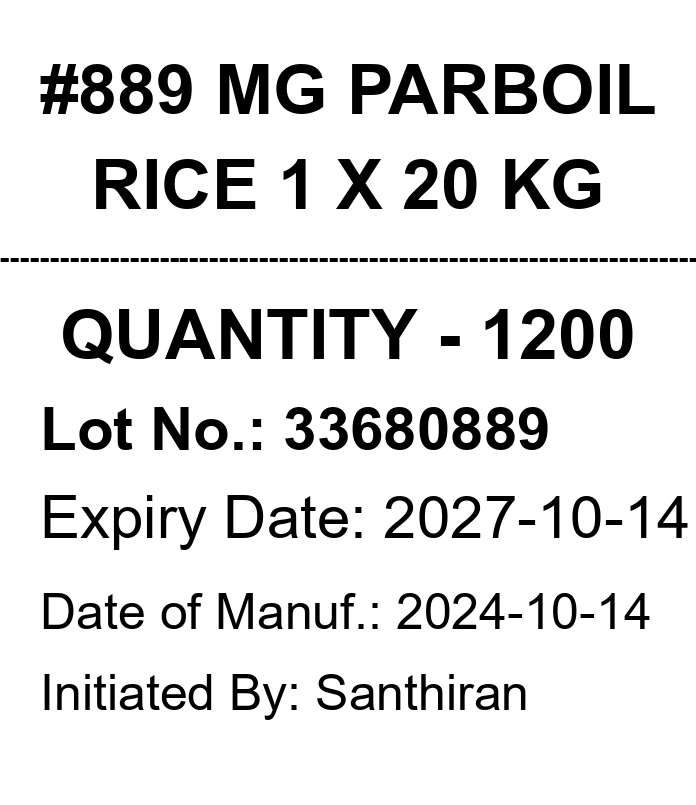
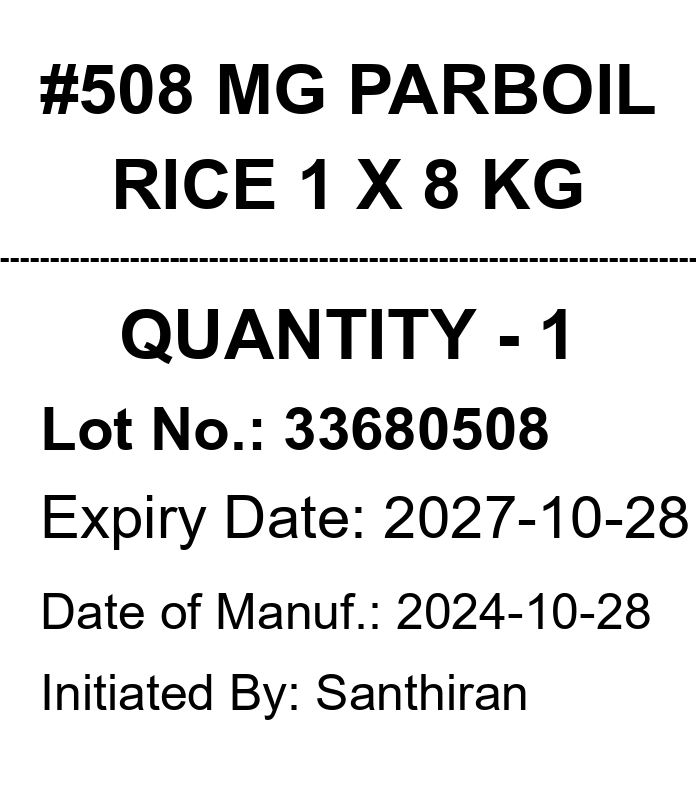
ads5f4asd1ca

diff --git a/LabelCreate.py b/LabelCreate.py
@@ -105,9 +105,10 @@ def generateSkidLabel(data, logoPath='logoBW.png', width=696, verticalMargin=35,
     dummyImage = Image.new("RGB", (width, 1), "white")
     draw = ImageDraw.Draw(dummyImage)
 
+    casePerSkid = data['printedStickers'][-1]['casePerSkid'] if len(data['printedStickers'])>0 and 'casePerSkid' in data['printedStickers'][-1] else data['casePerSkid']
     # Define text, positions, and alignments
     texts = [
-        {"text": '#'+data['item']+ ' '+data['itemLabel'].upper(), "x": width // 2, "width": width * 0.95, "align": "center", "fontSize": 70, "isBold": True},
+        {"text":str(casePerSkid)+' X #'+data['item']+ ' '+data['itemLabel'].upper(), "x": width // 2, "width": width * 0.98, "align": "center", "fontSize": 65, "isBold": True},
         {"text":' ' +'--------------------'*6+' ', "x": width // 2, "width": width * 0.95, "align": "center", "fontSize": 30, "isBold": True},        
         {"text": 'BATCH SKID NO. - ' + str(len(data['printedStickers'])), "x": width // 2, "width": width * 0.95, "align": "center", "fontSize": 60, "isBold": True},
         {"text":' ' +'--------------------'*6+' ', "x": width // 2, "width": width * 0.95, "align": "center", "fontSize": 30, "isBold": True},
@@ -115,7 +116,7 @@ def generateSkidLabel(data, logoPath='logoBW.png', width=696, verticalMargin=35,
     ]
 
     # Generate QR code
-    qr = qrcode.QRCode(version=1, box_size=15, border=2)
+    qr = qrcode.QRCode(version=1, box_size=22, border=1)
     qr.add_data(data['timeStamp']+'@'+data['item']+'@'+data['lotNumber']+'@'+str(len(data['printedStickers']))+'G')
     qr.make(fit=True)
     qrImage = qr.make_image(fill='black', back_color='white')
